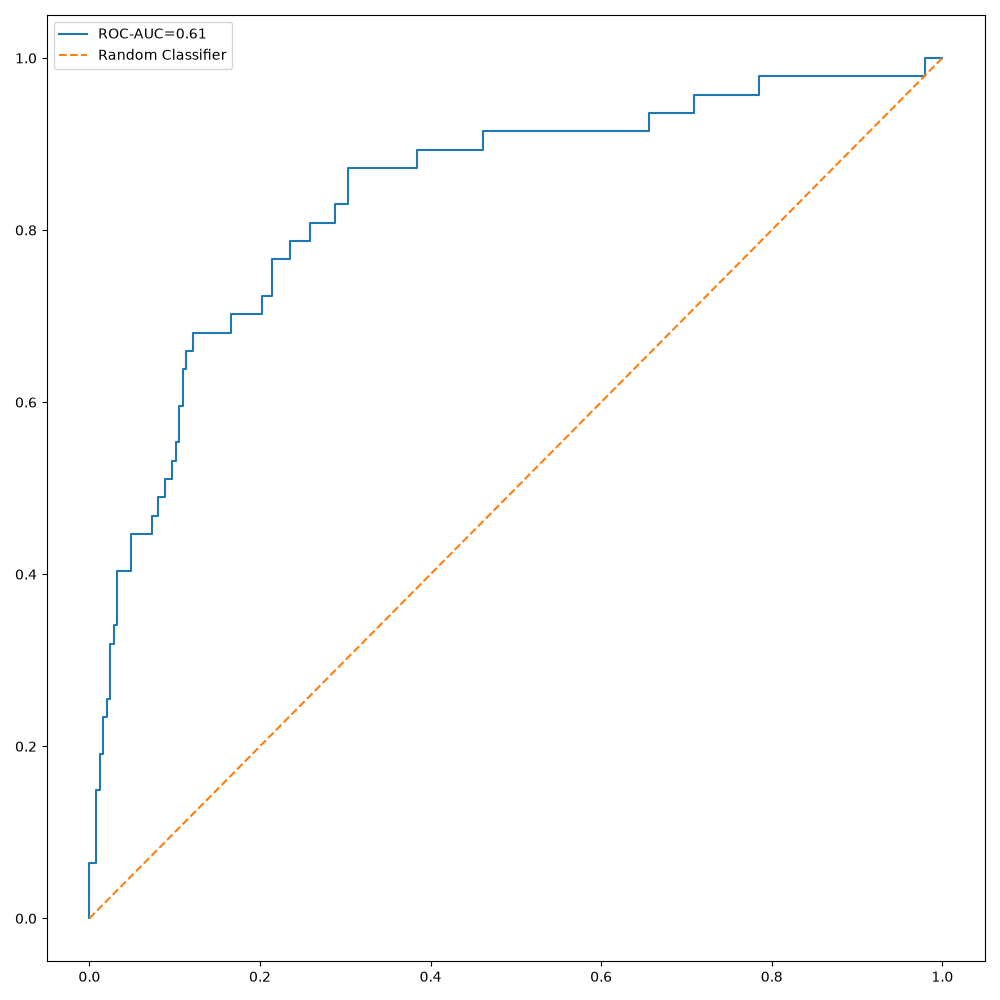
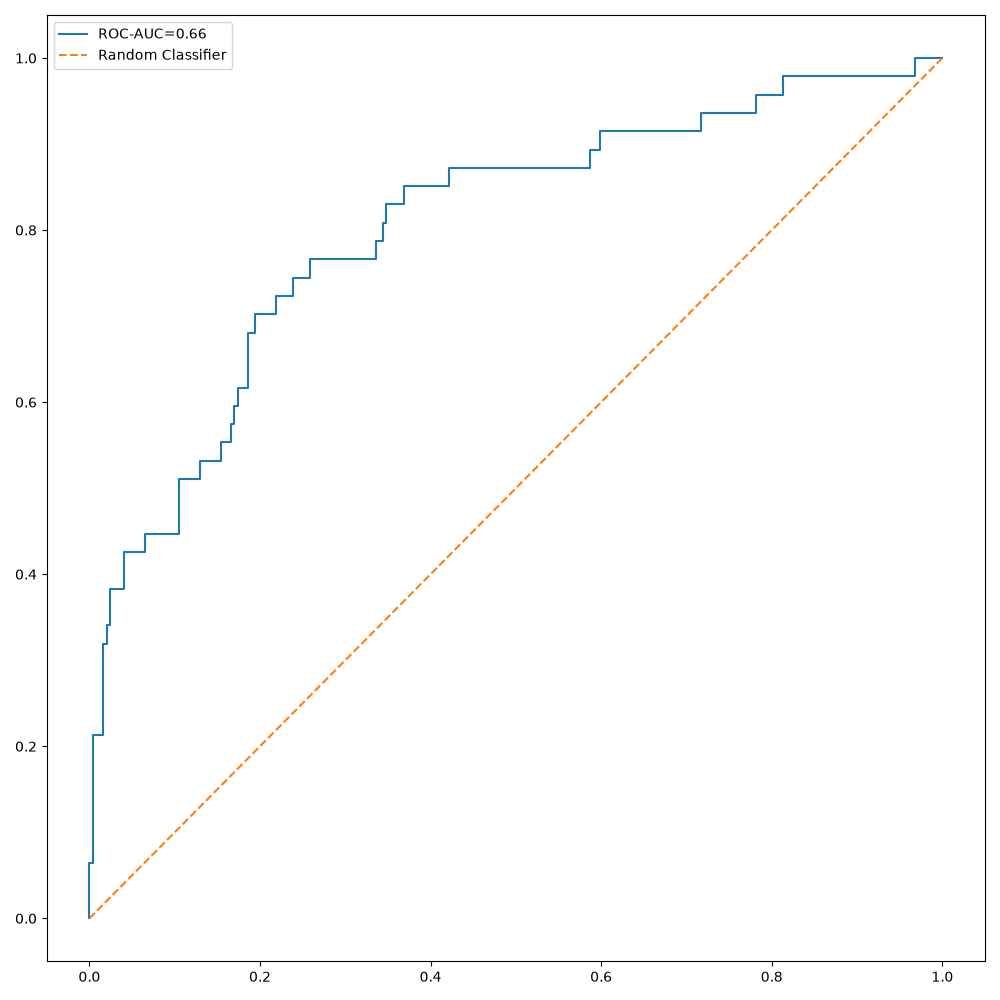
Smote completd

diff --git a/src/main.py b/src/main.py
@@ -10,6 +10,7 @@ from components.Model_training_9 import train_model
 from components.Model_Tuning_10 import tuning
 from components.Model_Evaluation_11 import evaluate_model
 from components.Experiment_training_12 import log_exp
+from components.SMOTE_13 import apply_smote
 
 
 def main():
@@ -23,10 +24,12 @@ def main():
     X_train_preprocessed, X_test_preprocessed, pre_process_nc_data = preprocess_data(X_train, X_test, n, c)
     y_train_preprocessed, y_test_preprocessed = encode_target(y_train, y_test)
 
-    leaderBoard, bestModel, bestModelName =  train_model(X_train_preprocessed, y_train_preprocessed,
+    X_train_balanced, y_train_balanced = apply_smote(X_train_preprocessed, y_train_preprocessed)
+
+    leaderBoard, bestModel, bestModelName =  train_model(X_train_balanced, y_train_balanced,
                                                          X_test_preprocessed, y_test_preprocessed)
 
-    result = tuning(X_train_preprocessed , y_train_preprocessed)
+    result = tuning(X_train_balanced , y_train_balanced)
 
     model = result['tuned_model']
     model_name = result['model_name']
@@ -34,7 +37,7 @@ def main():
     evaluation_results = evaluate_model(model, model_name, X_test_preprocessed, y_test_preprocessed)
     print(evaluation_results)
 
-    log_exp(model, model_name, evaluation_results)
+    # log_exp(model, model_name, evaluation_results)
 
 
 

diff --git a/src/components/SMOTE_13.py b/src/components/SMOTE_13.py
@@ -1,0 +1,14 @@
+from imblearn.over_sampling import SMOTE
+from collections import Counter
+
+def apply_smote(X_train_processed, y_train_processed):
+    print('Class Distribution Before SMOTE')
+    print(Counter(y_train_processed))
+    smote = SMOTE(random_state=42)
+    x_train_balanced, y_train_balanced = smote.fit_resample(X_train_processed, y_train_processed)
+    print('Class Distribution After SMOTE')
+    print(Counter(y_train_balanced))
+
+    print("------Smote applied------")
+
+    return x_train_balanced, y_train_balanced

diff --git a/src/components/Model_Evaluation_11.py b/src/components/Model_Evaluation_11.py
@@ -56,4 +56,6 @@ def evaluate_model(model, model_name, X_test, y_test):
     display_confusion_matrix(y_test, y_pred)
     display_roc_curve(y_test, probability, auc_score=metrics['ROC AUC'])
 
+    print("11. Model Evaluation is completed")
+
     return metrics
